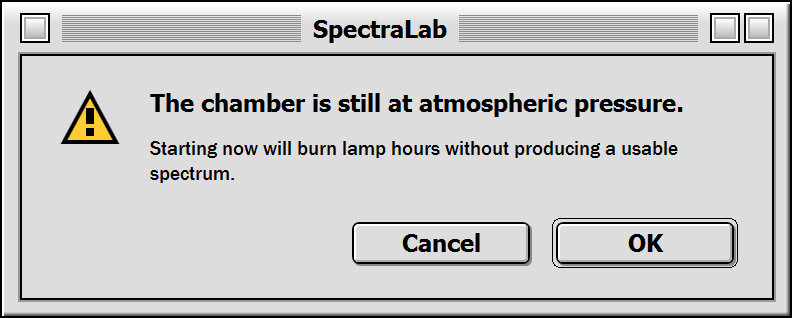
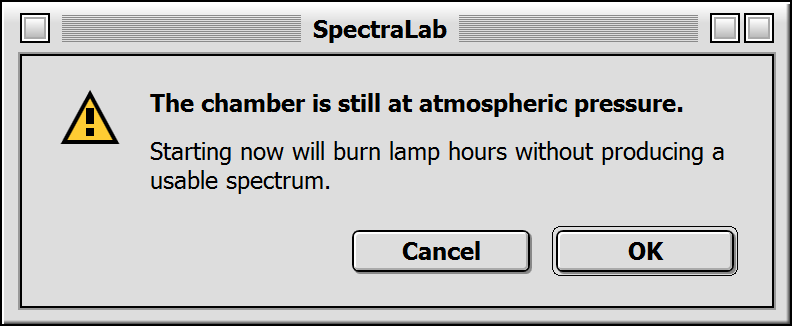
Iguala el tamaño de las dos líneas del aviso
El detalle iba a 10 y en la tipografía de contenido: más chico y más delgado que
todo lo que lo rodea. Ese tamaño es el que el tema reserva para cosas accesorias,
como el conteo bajo una lista.

En un aviso la segunda línea no es un pie de página: es la que dice qué va a pasar
si el usuario sigue adelante. En el de la galería, la primera dice que la cámara
está a presión atmosférica y la segunda que va a quemar horas de lámpara sin
obtener nada útil. La consecuencia estaba en la línea chica.

Las dos van ahora a la misma medida y la jerarquía la marca el peso, que es como
la marcaban los avisos de Mac OS 9. De paso deja de mezclar las dos tipografías
del tema dentro de una misma caja.

diff --git a/src/MacOS9.Platinum/Controls/PlatinumAlert.cs b/src/MacOS9.Platinum/Controls/PlatinumAlert.cs
@@ -131,6 +131,11 @@ public class PlatinumAlert : PlatinumWindow
 
         // El detalle solo ocupa lugar cuando lo hay: un renglón vacío permanente
         // separaría el mensaje de las teclas sin motivo.
+        //
+        // Va del mismo tamaño que el mensaje y se distingue por el peso, no por la
+        // medida. En un aviso la segunda línea no es un pie de página: es la que
+        // dice qué va a pasar si el usuario sigue adelante, y esta es la ventana
+        // que se lee con prisa. Achicarla era esconder justo la consecuencia.
         if (!string.IsNullOrEmpty(Detail))
         {
             var detalle = new TextBlock
@@ -138,8 +143,9 @@ public class PlatinumAlert : PlatinumWindow
                 Text = Detail,
                 TextWrapping = TextWrapping.Wrap,
                 Margin = new Thickness(0, 8, 0, 0),
-                FontFamily = Recurso("ViewFontFamily") as FontFamily,
-                FontSize = Recurso("SmallFontSize") is double chico ? chico : 10d,
+                FontFamily = Recurso("SystemFontFamily") as FontFamily,
+                FontWeight = FontWeights.Normal,
+                FontSize = Recurso("SystemFontSize") is double medida ? medida : 12d,
                 Foreground = Recurso("TextBrush") as Brush
             };
             Grid.SetRow(detalle, 1);
